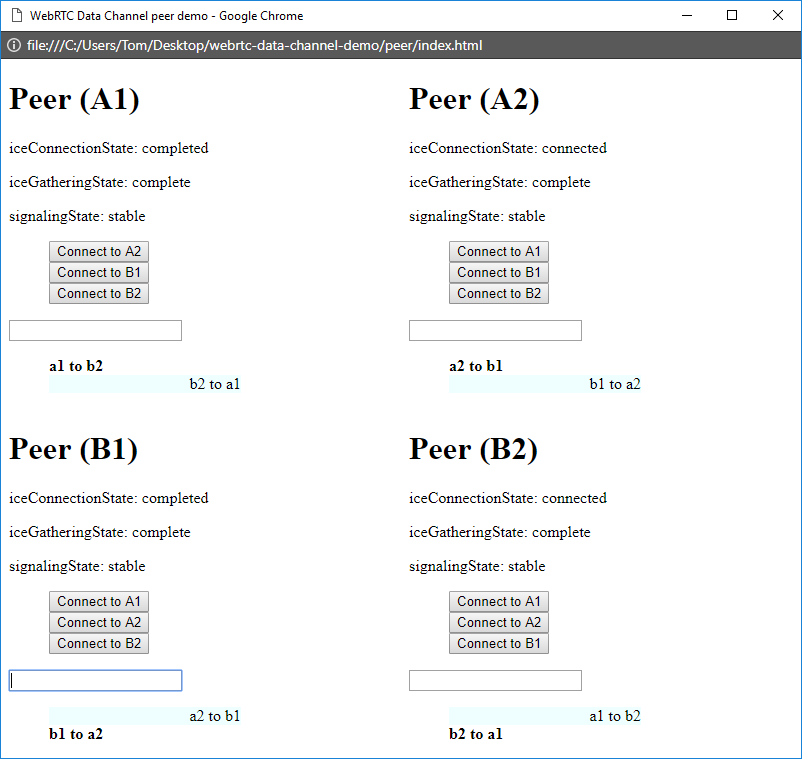
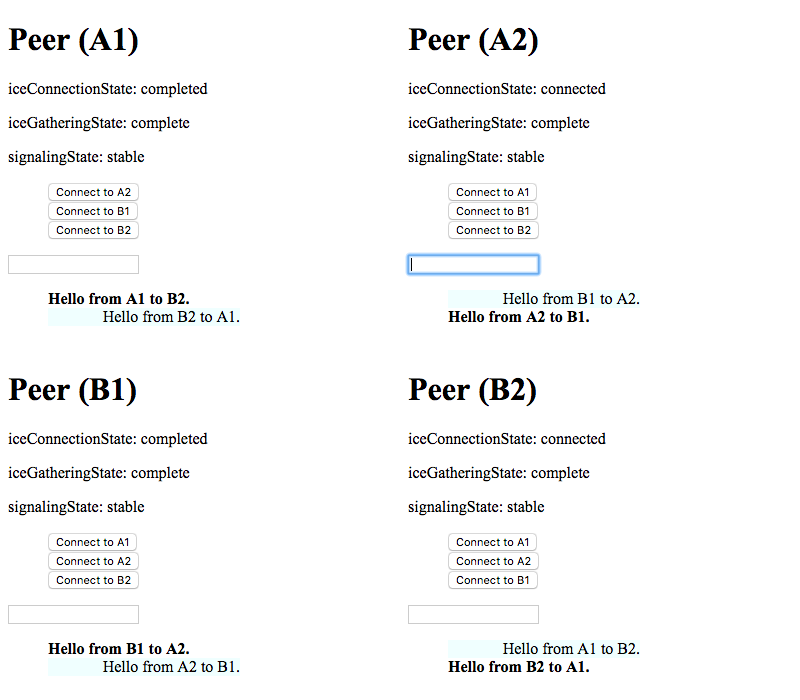
Finalize Puppeteer automation of Chrome screenshot and console capture

diff --git a/cmd/chrome-screenshot/index.js b/cmd/chrome-screenshot/index.js
@@ -1,20 +1,98 @@
 const puppeteer = require('puppeteer');
 const path = require('path');
+const fs = require('fs');
 
-(async () => {
+async function capture() {
   const browser = await puppeteer.launch();
   const page = await browser.newPage();
-  // TODO: See if can do fixed with and dynamic content-based height
-  await page.setViewport({ width: 800, height: 600 }); // Default 800x600
-  let console = '';
-  page.on('console', event => {
-    // TODO: `args`, `type`.
-    console += event.text;
-  });
-  // TODO: Decide how to distinguish peer vs offerer-answerer (command line switch?)
-  await page.goto('file://' + path.join(__dirname, '../../src/peer/index.html'));
-  // TODO: Do user interaction setup.
-  await page.screenshot({ path: 'screenshot.png' }); // TODO: Replace current screenshot in `src`
+
+  // Figure out where to read demo index from and save screenshot and console to.
+  const demo = process.argv[2];
+  const directoryPath = path.join(__dirname, `../../src/${demo}`);
+
+  // Capture output of console.log, console.error etc.
+  let output = '';
+  page.on('console', event => output += event.text + '\n');
+
+  // Simulate the desired demo scenario.
+  await page.goto('file://' + path.join(directoryPath, 'index.html'), { waitUntil: 'load' });
+  switch (demo) {
+    case 'offerer-answerer': {
+      // Assume 2 frames as it is hardcoded and skip main page frame.
+      const frames = await page.frames();
+
+      // Wait for WebRTC connection to be established (fast on local network).
+      await page.waitFor(100);
+
+      // Connect offerer + answerer and exchange messages.
+      const offererMessageInput = await frames[1].$('#messageInput');
+      const answererMessageInput = await frames[2].$('#messageInput');
+
+      offererMessageInput.focus();
+      await page.keyboard.type('Hello from offerer to answerer.');
+      await page.keyboard.press('Enter');
+
+      answererMessageInput.focus();
+      await page.keyboard.type('Hello from answerer to offerer.');
+      await page.keyboard.press('Enter');
+
+      // Accommodate page size to make frames fully visible.
+      await page.setViewport({ width: 800, height: 300 });
+      break;
+    }
+    case 'peer': {
+      // Assume 4 frames as it is hardcoded and skip main page frame.
+      const frames = await page.frames();
+
+      // Connect A1 + B2 and exchange messages.
+      const a1ConnectButton = await frames[1].$('#connectB2Button');
+      const a1MessageInput = await frames[1].$('#messageInput');
+      const b2MessageInput = await frames[4].$('#messageInput');
+      a1ConnectButton.click();
+
+      // Wait for WebRTC connection to be established (fast on local network).
+      await page.waitFor(100);
+
+      a1MessageInput.focus();
+      await page.keyboard.type('Hello from A1 to B2.');
+      await page.keyboard.press('Enter');
+
+      b2MessageInput.focus();
+      await page.keyboard.type('Hello from B2 to A1.');
+      await page.keyboard.press('Enter');
+
+      // Connect B1 + A2 and exchange messages.
+      const b1ConnectButton = await frames[3].$('#connectA2Button');
+      const b1MessageInput = await frames[3].$('#messageInput');
+      const a2MessageInput = await frames[2].$('#messageInput');
+      b1ConnectButton.click();
+
+      // Wait for WebRTC connection to be established (fast on local network).
+      await page.waitFor(100);
+
+      b1MessageInput.focus();
+      await page.keyboard.type('Hello from B1 to A2.');
+      await page.keyboard.press('Enter');
+
+      a2MessageInput.focus();
+      await page.keyboard.type('Hello from A2 to B1.');
+      await page.keyboard.press('Enter');
+
+      // Accommodate page size to make frames fully visible.
+      await page.setViewport({ width: 800, height: 700 });
+      break;
+    }
+    default: {
+      throw new Error(`Unsupported demo scenario ${demo}.`);
+    }
+  }
+
+  // Capture the screenshot.
+  await page.screenshot({ path: path.join(directoryPath, 'screenshot.png'), fullPage: true });
   await browser.close();
-  // TODO: Save collected console messages.
-})();
+  
+  // Capute the console output.
+  fs.writeFileSync(path.join(directoryPath, 'console.log'), output);
+}
+
+capture();

diff --git a/src/peer/peer.js b/src/peer/peer.js
@@ -44,6 +44,7 @@ async function receiveMessage(data) {
 			console.log(`[peer ${name}] index provides new peers`);
 			for (const peer of data.peers) {
 				const button = document.createElement('button');
+				button.id = `connect${peer}Button`;
 				button.textContent = `Connect to ${peer}`;
 				button.addEventListener('click', async event => {
 					await initializeAndSendOffer(peer);

diff --git a/README.md b/README.md
@@ -9,111 +9,27 @@ The code should be self-explanatory when following MDN on the side. There is onl
 
 ## Offerer-answerer mode
 
-Unix: `open offerer-answerer/index.html`
-
-Windows: `start offerer-answerer/index.html`
+- Unix: `open offerer-answerer/index.html`
+- Windows: `start offerer-answerer/index.html`
+- Test: `./cmd/chrome-screenshot/cmd.sh offerer-answerer`
 
 In this demo, there are two separate files for offerer and answerer so that who does what when establishing a connection is clearly separated.
 
-![A screenshot of Google Chrome running the example](offerer-answerer/screenshot.png)
+![A screenshot of Google Chrome running the example](src/offerer-answerer/screenshot.png)
 
-```txt
-offerer.js:39 [offerer] initialized peer connection
-offerer.js:102 [offerer] onsignalingstatechange have-local-offer
-offerer.js:85 [offerer] onicegatheringstatechange gathering
-answerer.js:42 [answerer] received offerer offer
-answerer.js:125 [answerer] set offerer description
-answerer.js:118 [answerer] onsignalingstatechange have-remote-offer
-answerer.js:49 [answerer] received offerer candidate
-answerer.js:51 [answerer] added offerer ice candidate
-answerer.js:118 [answerer] onsignalingstatechange stable
-answerer.js:96 [answerer] oniceconnectionstatechange checking
-answerer.js:44 [answerer] initialized peer connection
-answerer.js:101 [answerer] onicegatheringstatechange gathering
-offerer.js:44 [offerer] received answerer answer
-offerer.js:102 [offerer] onsignalingstatechange stable
-offerer.js:80 [offerer] oniceconnectionstatechange checking
-offerer.js:46 [offerer] set answerer description
-offerer.js:51 [offerer] received answerer candidate
-offerer.js:53 [offerer] added answerer ice candidate
-answerer.js:101 [answerer] onicegatheringstatechange complete
-offerer.js:85 [offerer] onicegatheringstatechange complete
-offerer.js:80 [offerer] oniceconnectionstatechange connected
-offerer.js:80 [offerer] oniceconnectionstatechange completed
-offerer.js:123 [offerer] onopen
-answerer.js:96 [answerer] oniceconnectionstatechange connected
-answerer.js:67 [answerer] ondatachannel
-answerer.js:83 [answerer] onopen
-```
+[Console output from this demo](/src/offerer-answerer/console.log)
 
 ## Peer mode
 
-Unix: `open peer/index.html`
-
-Windows: `start peer/index.html`
+- Unix: `open peer/index.html`
+- Windows: `start peer/index.html`
+- Test: `./cmd/chrome-screenshot/cmd.sh peer`
 
 In this demo, each peer is capable of being either and offerer or an answerer. The flows for both are intertwined. Less clear but more real-life.
 
-![A screenshot of Google Chrome running the example](peer/screenshot.png)
+![A screenshot of Google Chrome running the example](src/peer/screenshot.png)
 
-```txt
-peer.js:44 [peer A1] index provides new peers
-peer.js:44 [peer A2] index provides new peers
-peer.js:44 [peer B1] index provides new peers
-peer.js:44 [peer B2] index provides new peers
-peer.js:128 [peer A1] onsignalingstatechange have-local-offer
-peer.js:50 [peer A1] initialized peer connection
-peer.js:111 [peer A1] onicegatheringstatechange gathering
-peer.js:63 [peer B2] received peer offer from A1
-peer.js:224 [peer B2] set offerer description
-peer.js:217 [peer B2] onsignalingstatechange have-remote-offer
-peer.js:77 [peer B2] received ice candidate from A1
-peer.js:65 [peer B2] initialized peer connection
-peer.js:79 [peer B2] added peer ice candidate from A1
-peer.js:217 [peer B2] onsignalingstatechange stable
-peer.js:195 [peer B2] oniceconnectionstatechange checking
-peer.js:200 [peer B2] onicegatheringstatechange gathering
-peer.js:70 [peer A1] received peer answer from B2
-peer.js:128 [peer A1] onsignalingstatechange stable
-peer.js:106 [peer A1] oniceconnectionstatechange checking
-peer.js:77 [peer A1] received ice candidate from B2
-peer.js:72 [peer A1] set peer description
-peer.js:79 [peer A1] added peer ice candidate from B2
-peer.js:200 [peer B2] onicegatheringstatechange complete
-peer.js:111 [peer A1] onicegatheringstatechange complete
-peer.js:106 [peer A1] oniceconnectionstatechange connected
-peer.js:106 [peer A1] oniceconnectionstatechange completed
-peer.js:149 [peer A1] onopen
-peer.js:195 [peer B2] oniceconnectionstatechange connected
-peer.js:166 [peer B2] ondatachannel
-peer.js:182 [peer B2] onopen
-peer.js:128 [peer B1] onsignalingstatechange have-local-offer
-peer.js:50 [peer B1] initialized peer connection
-peer.js:111 [peer B1] onicegatheringstatechange gathering
-peer.js:63 [peer A2] received peer offer from B1
-peer.js:77 [peer A2] received ice candidate from B1
-peer.js:224 [peer A2] set offerer description
-peer.js:79 [peer A2] added peer ice candidate from B1
-peer.js:217 [peer A2] onsignalingstatechange have-remote-offer
-peer.js:217 [peer A2] onsignalingstatechange stable
-peer.js:195 [peer A2] oniceconnectionstatechange checking
-peer.js:65 [peer A2] initialized peer connection
-peer.js:200 [peer A2] onicegatheringstatechange gathering
-peer.js:70 [peer B1] received peer answer from A2
-peer.js:128 [peer B1] onsignalingstatechange stable
-peer.js:106 [peer B1] oniceconnectionstatechange checking
-peer.js:72 [peer B1] set peer description
-peer.js:77 [peer B1] received ice candidate from A2
-peer.js:79 [peer B1] added peer ice candidate from A2
-peer.js:200 [peer A2] onicegatheringstatechange complete
-peer.js:111 [peer B1] onicegatheringstatechange complete
-peer.js:106 [peer B1] oniceconnectionstatechange connected
-peer.js:106 [peer B1] oniceconnectionstatechange completed
-peer.js:149 [peer B1] onopen
-peer.js:195 [peer A2] oniceconnectionstatechange connected
-peer.js:166 [peer A2] ondatachannel
-peer.js:182 [peer A2] onopen
-```
+[Console output from this demo](/src/peer/console.log)
 
 ## Support
 
@@ -126,7 +42,14 @@ It does not use anything else and runs off the `file` protocol.
 
 ## Scripts
 
-- `cmd/chrome-screenshot/index.js` Chrome screenshot capturer
+Chrome screenshot capture:
+
+- `./cmd/chrome-screenshot/cmd.sh peer`
+- `./cmd/chrome-screenshot/cmd.sh offerer-answerer`
+
+Firefox screenshot capture:
+
+- [ ] Implement (see [doc/tasks.md](doc/tasks.md))
 
 ## Exploring
 

diff --git a/doc/tasks.md b/doc/tasks.md
@@ -1,6 +1,6 @@
 # Tasks
 
-- Finalize the Puppeteer script
+- Fix *nvm: command not found* in `cmd/chrome-screenshot/cmd.sh`
 - Contribute Firefox headless automation script for screenshots
 - Keying peer connection and data channel by peer in the peer demo to make it possible to have a group conversation or multiple conversations at one time
 - Extension of the example to cover media session establishment on top of the data one
